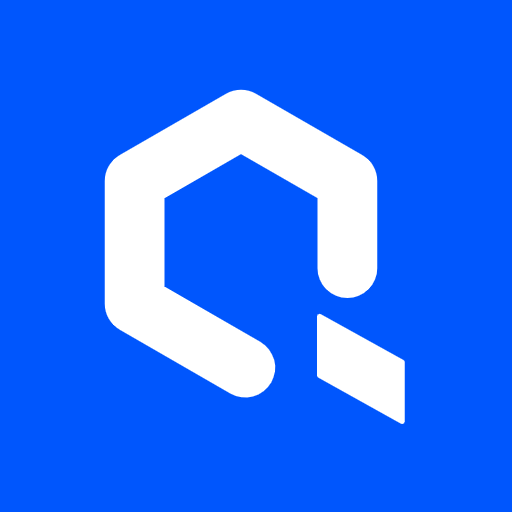
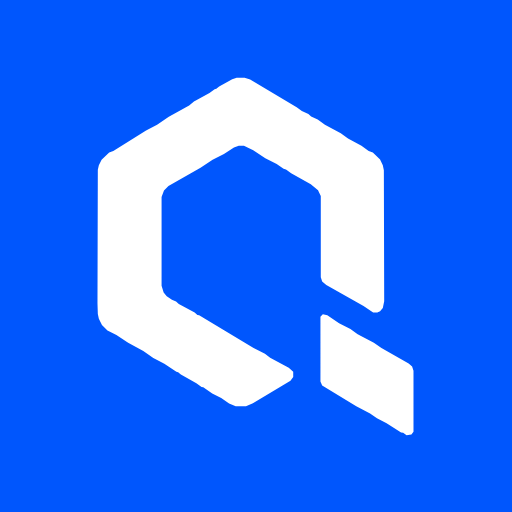
โลโก้: ลอกเส้นจากไฟล์ต้นฉบับ แทนการวาดเลียนแบบ
ของเดิมผมประมาณเอา: หกเหลี่ยมปลายแหลม วาดด้วยเส้น stroke มุมโค้ง ตัดกลางด้านขวา
บวกแท่งหาง ได้คะแนน 97% เทียบต้นฉบับ แต่ยังผิดที่ตาเห็น เพราะ 3% ที่เหลือไป
กระจุกตรงจุดที่คนมอง มาร์กจริงปลายเส้น "ตัดเฉียงเรียบ" แต่ path แบบ stroke จบได้
แค่ butt/round/square ปลายจึงออกมาเป็นก้อนมน และมุมทั้งหมดโค้งกว่าต้นฉบับ

แย่กว่านั้น ครึ่งหนึ่งของความหนาเส้นล้นออกนอก viewBox ทางซ้าย เบราว์เซอร์เลยตัดทิ้ง
มาร์กบนแถบบนจึงมีด้านแบน — ตรงกับที่ผู้ใช้วงไว้ว่าโลโก้หายไปบางส่วน

ตอนนี้เป็นเส้นขอบที่ลอกจากงานจริง: แรสเตอร์ที่ 4 เท่า เดินขอบด้วย crack following
(ทุกรอยต่อระหว่างเซลล์มีหมึกกับเซลล์ว่างคือ edge หนึ่งหน่วยที่จัดทิศให้หมึกอยู่ข้าง
เดียวกันเสมอ ต่อกันแล้วจึงเดินครบทุกเส้นรอบรูปพอดีครั้งเดียว) แล้วลดจุดด้วย
Douglas-Peucker ที่ 0.4px ได้ 99.9% ตรงกับต้นฉบับทีละพิกเซล ใน path 1.4KB

เป็น filled outline ไม่มี stroke จึงไม่มีอะไรล้นกรอบอีก และเพิ่มเทสต์ที่ยืนยันว่า
ทุกพิกัดใน path อยู่ในกรอบ viewBox (ลองใส่บั๊กกลับแล้วมันฟ้องจริง)

หมายเหตุ: ได้ contour สองเส้น ไม่ใช่สาม เพราะวงแหวนถูกตัดเปิดที่มุมล่างขวา ช่องว่าง
ตรงกลางจึงไม่ได้ถูกล้อมรอบ ทั้งวงเป็นรูป C ชิ้นเดียว อีกเส้นคือหาง

สร้าง PNG/ไอคอนใหม่ทั้งชุดจาก path เดียวกัน

เทสต์ 234 ข้อผ่านหมด

Changed region(s): [[0.1875, 0.1562, 0.75, 0.8125], [0.6875, 0.6875, 0.8125, 0.875], [0.6562, 0.625, 0.6875, 0.6562]]

diff --git a/tests/suite.js b/tests/suite.js
@@ -2131,6 +2131,30 @@
       expect(r.status).toBe(200);
       expect(svg).toContain('#0056fd');
     });
+
+    /* The first attempt drew the mark as a stroked hexagon, and half the stroke
+       width hung off the left of the viewBox — the browser cut it, so the top
+       bar showed a mark with a flat side. A filled outline has no stroke to
+       overflow, and every point of it has to land inside the box. */
+    it('keeps every point of the mark inside its own viewBox', async function (w) {
+      var files = ['assets/img/qubequote-mark.svg', 'assets/img/qubequote-mark-white.svg'];
+      for (var f = 0; f < files.length; f++) {
+        var svg = await (await fetch('../' + files[f])).text();
+        var box = svg.match(/viewBox="0 0 (\d+) (\d+)"/);
+        expect(!!box).toBe(true, files[f] + ' should declare a viewBox from the origin');
+        var vw = +box[1], vh = +box[2];
+        expect(/stroke-width/.test(svg)).toBe(false,
+          'a stroke is the thing that overflowed; this is a filled outline');
+        var d = svg.match(/ d="([^"]+)"/)[1];
+        var nums = d.match(/-?\d+(?:\.\d+)?/g).map(Number);
+        var outside = [];
+        for (var i = 0; i < nums.length; i += 2) {
+          if (nums[i] < 0 || nums[i] > vw) outside.push('x=' + nums[i]);
+          if (nums[i + 1] < 0 || nums[i + 1] > vh) outside.push('y=' + nums[i + 1]);
+        }
+        expect(outside).toEqual([], files[f] + ' has geometry the viewBox would clip');
+      }
+    });
   });
 
   // ==================================================== กดลูกตาดูรหัสผ่านได้ ===

diff --git a/README.md b/README.md
@@ -3094,16 +3094,31 @@ does not name the column. Restoring the one line in `PROFILE_COLS` fails the thi
 The name was already in use elsewhere, so the app is QubeQuote from 2026-09-01,
 with the mark from the new brand sheet.
 
-The mark is **drawn, not cropped**. The sheet is a 1536×1024 raster and the mark
-occupies 230×260 of it — enough for a 40px top bar, not enough for a 512px app
-icon, which would have been a 2.2× upscale of a shape whose whole character is
-crisp straight edges. So it was measured off the sheet and rebuilt as geometry: a
-regular pointy-top hexagon, 207 wide and 239 tall, stroked at 46 with round
-joins, cut 71% of the way down its right side, plus a detached bar running
-parallel to the upper-right edge for the Q's tail. The reconstruction was scored
-against the sheet pixel by pixel and tuned until it matched — 97%, with the
-remainder being a sub-pixel boundary offset around a ~1,400px perimeter. It now
-ships as SVG and is sharp at every size.
+The mark is **traced, not cropped and not redrawn by eye**. The sheet is a
+1536×1024 raster and the mark occupies 230×260 of it — enough for a 40px top bar,
+not enough for a 512px app icon, which would have been a 2.2× upscale of a shape
+whose whole character is crisp straight edges.
+
+The first attempt approximated it: a regular pointy-top hexagon, stroked with
+round joins, cut partway down its right side, plus a detached bar for the tail. It
+scored 97% against the sheet and was still visibly wrong, because the 3% was
+concentrated where the eye looks. The real mark ends its strokes with **flat
+angled cuts**; a stroked path can only end in a butt, round or square cap, so
+those ends came out as rounded blobs, and the corners were softer than the
+original throughout. Worse, half the stroke width hung off the left of the
+viewBox, so the browser cut it and the top bar showed a mark with a flat side.
+
+It is now an **outline followed off the artwork**: the mark is rasterised at 4×,
+its boundary walked as a crack-following contour (each cell/empty boundary is a
+unit edge oriented with the ink on one side, so chaining them traverses each
+contour exactly once), and the result simplified to within 0.4px. That comes to
+99.9% of the original pixel for pixel, in a 1.4KB path. It is a filled outline
+with no stroke, so there is nothing left to overflow the box — and a test now
+asserts that every coordinate in the path lands inside the viewBox.
+
+Two contours, not three, which is worth knowing before assuming a bug: the ring
+is cut open at the lower right, so its counter is not enclosed and the whole ring
+is one simply-connected C. The second contour is the tail.
 
 The tab icon leads with that SVG, so a browser that accepts one draws the mark at
 whatever size the tab happens to be; the three PNGs stay for the ones that do
